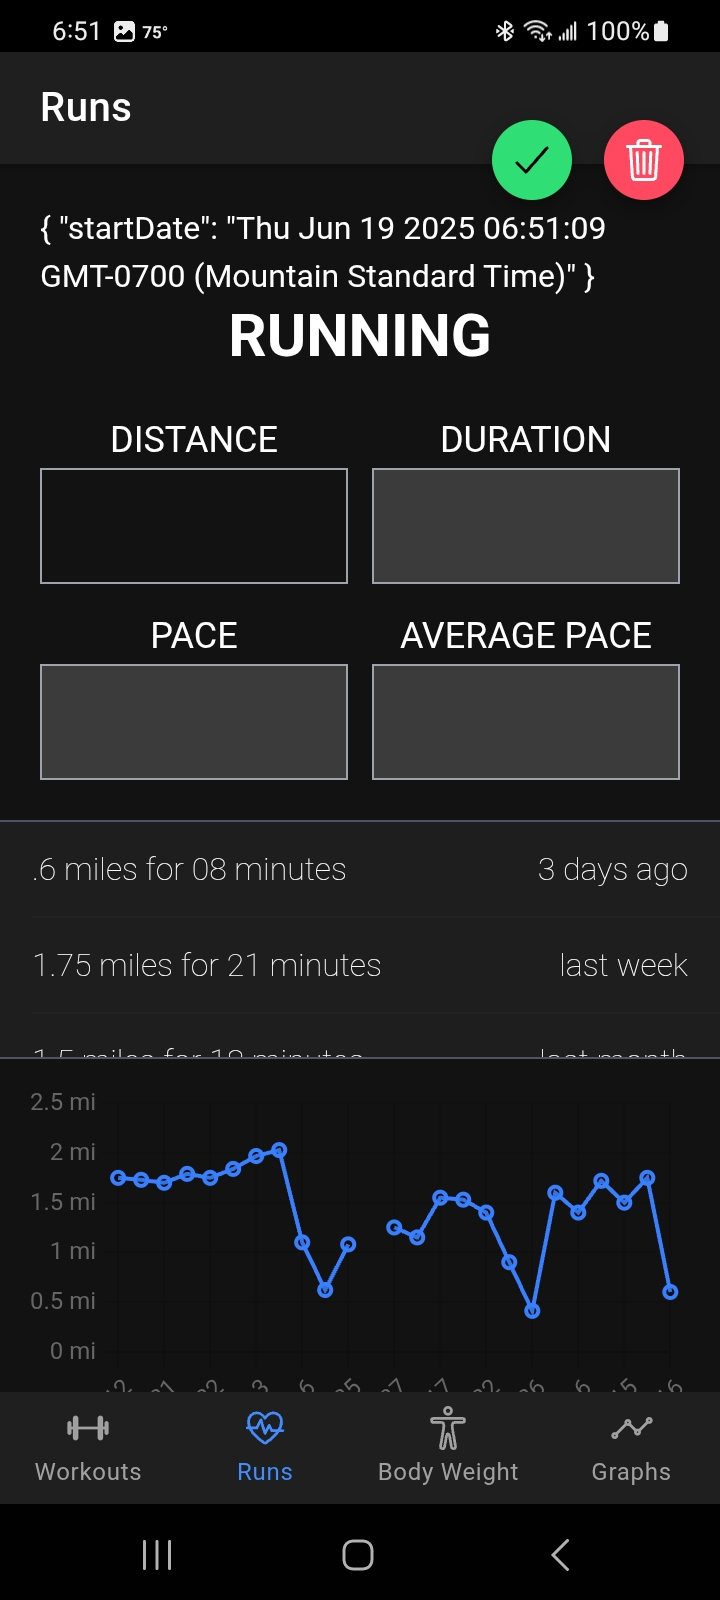
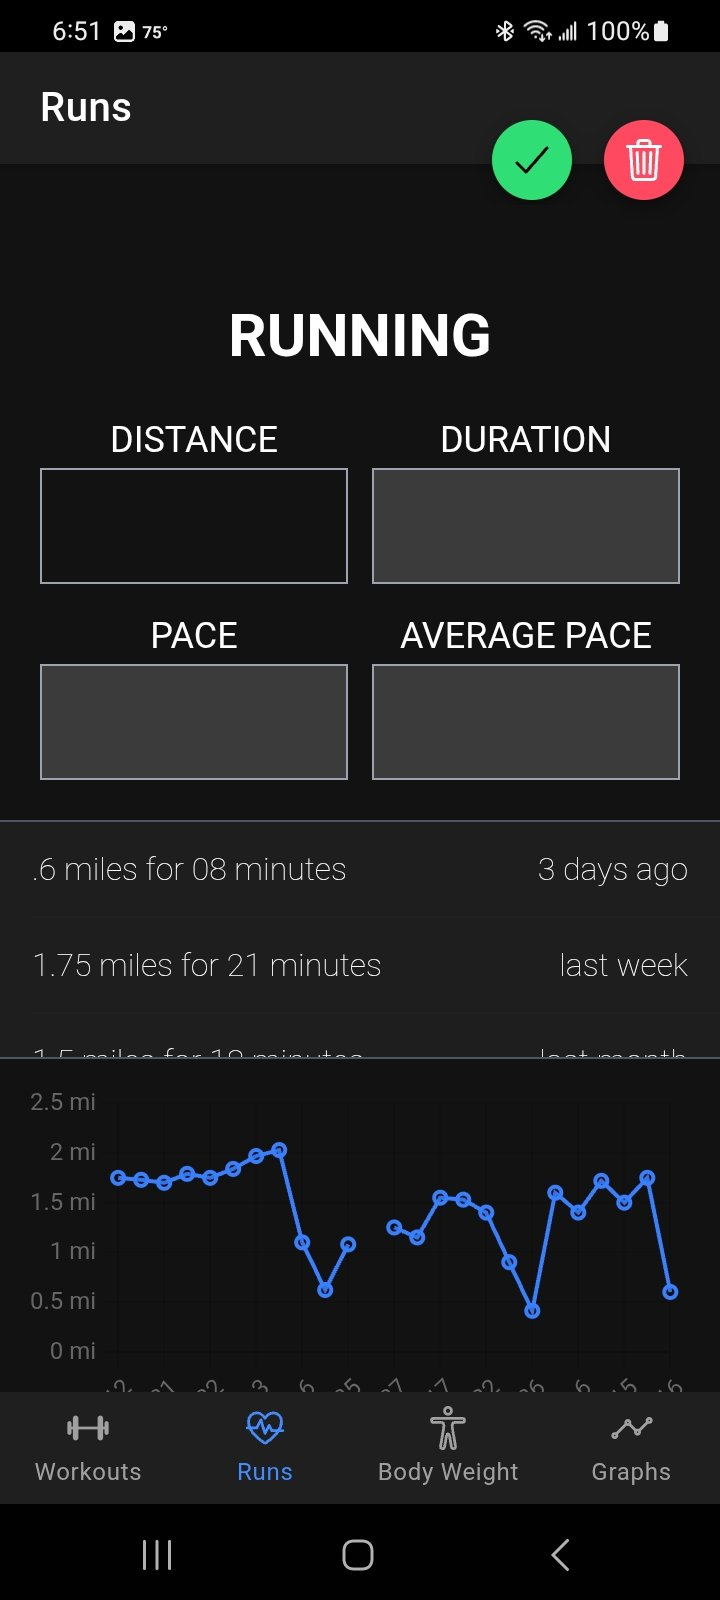
screenshots on README

Changed region(s): [[0.0611, 0.125, 0.4889, 0.1875], [0.4889, 0.125, 0.8556, 0.1875]]

diff --git a/README.md b/README.md
@@ -1,0 +1,9 @@
+### 📸 Screenshots
+
+| ![](screenshots/Screenshot_20250619_065028_health-logger.jpg) | ![](screenshots/Screenshot_20250619_065037_health-logger.jpg) | ![](screenshots/Screenshot_20250619_065101_health-logger.jpg) |
+|:--:|:--:|:--:|
+| Home Screen | Weight Lifting Log | Core Workout Log |
+
+| ![](screenshots/Screenshot_20250619_065112_health-logger.jpg) | ![](screenshots/Screenshot_20250619_065120_health-logger.jpg) | ![](screenshots/Screenshot_20250619_065127_health-logger.jpg) |
+|:--:|:--:|:--:|
+| Running Session | Weight Tracking | Spark Charts |
